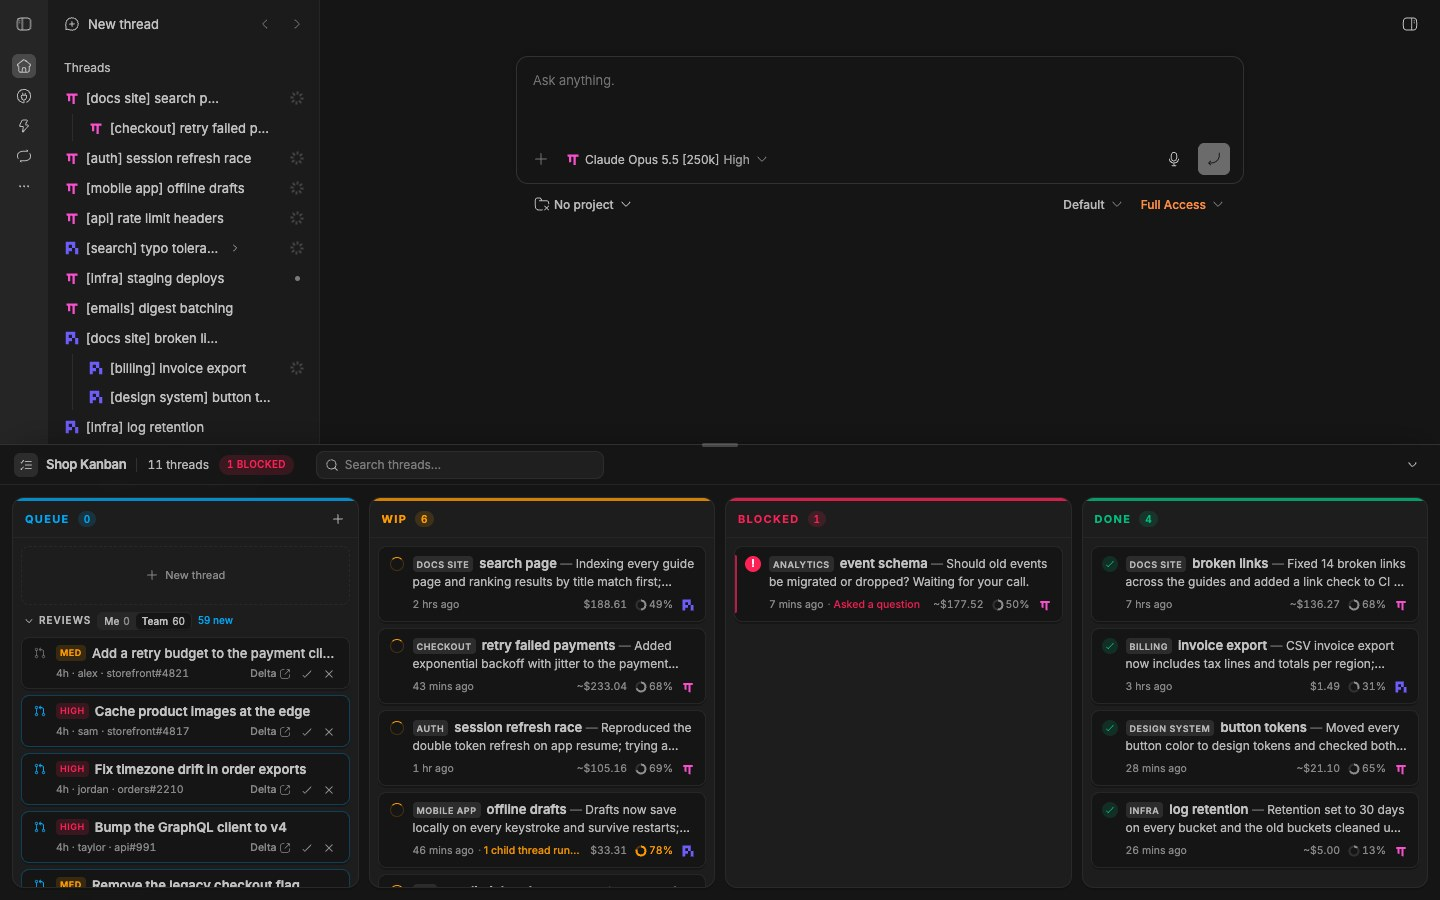
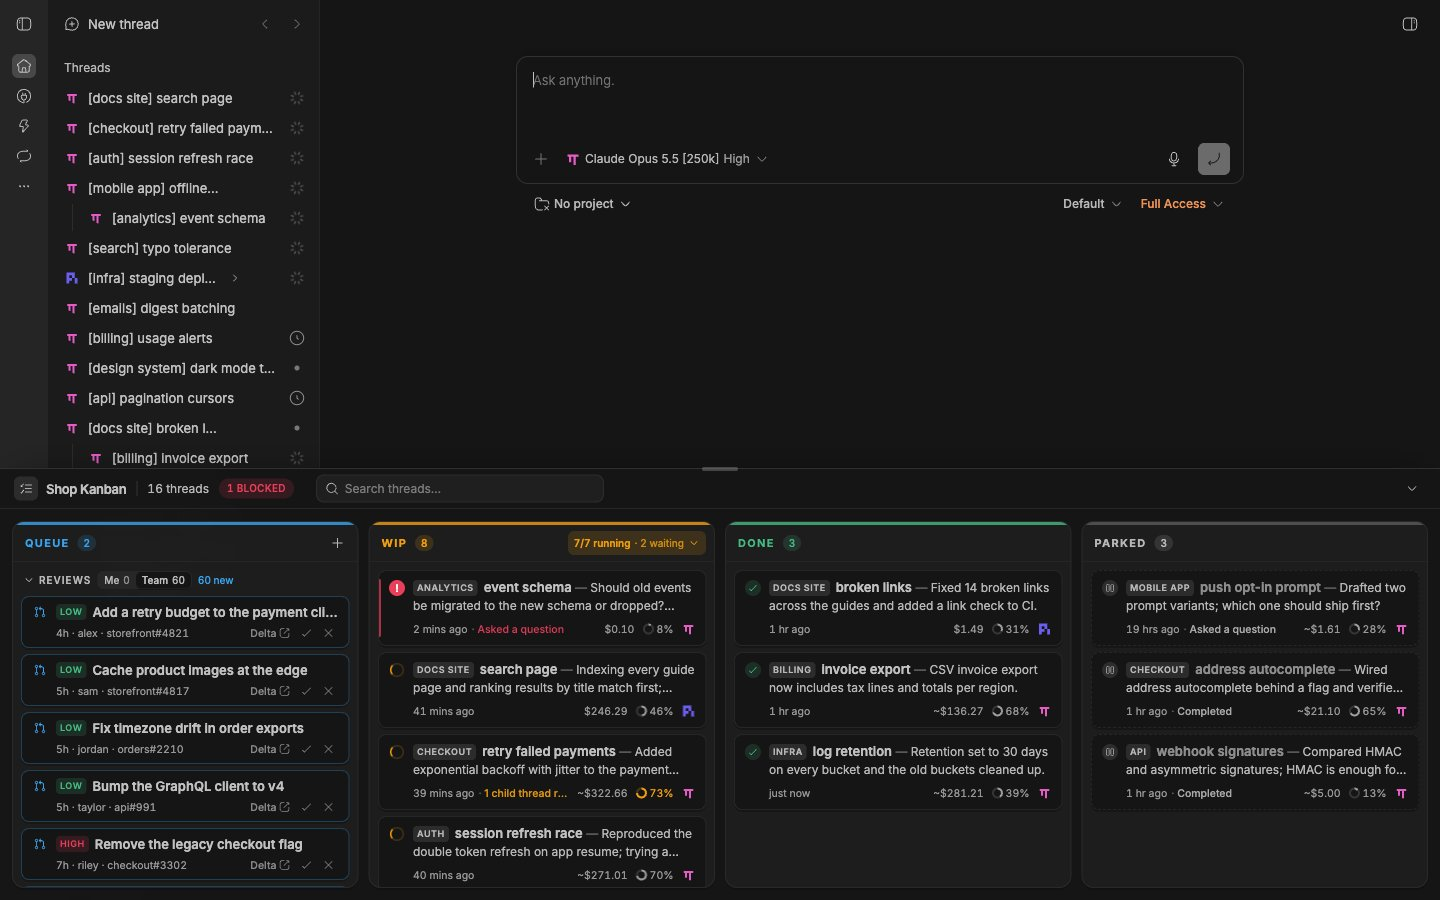
Update plugin entry: shop-kanban 0.11.0 (#741)
Automated note from a Claude Code agent, posted on behalf of the marketplace maintainer.

Reviewed under the maintainer admission policy. Exact selected plugin sources install and load, required marketplace format passes, and no malware or author self-addition to New and Notable was found. Current-head CI verified green.

diff --git a/overview/shop-kanban.md b/overview/shop-kanban.md
@@ -1,19 +1,20 @@
 ## What you get
 
-- A board docked at the bottom of bb with Queue, WIP, Blocked and Done columns. Every non-archived top-level thread is on it, and child threads roll up into their parent thread.
-- Columns follow live thread state, so you never drag a thread. Queue means not started. WIP means the thread or one of its children is running, background work included. Blocked means idle and waiting on you: a pending interaction, an error, a failed result, or a last reply that asks a question. Done means idle with a last reply that reports completion; unread Done threads come first.
-- Each thread shows a `[category] intent` title, a summary of the latest exchange (two lines, three on hover), the update time and status, what the thread has spent together with its child threads and subagents (archived ones included; `~` when part of it is estimated), a ring with the share of the context window in use (amber at 70%, red at 90%), and the icon of the harness running the thread. Rest the pointer on a card for a tooltip beside it with the harness, model, thinking level, tokens, cost, access mode and service tier.
-- Clicking a thread opens it at the latest message. The Queue + button starts a new thread from a form at the top of Queue that keeps your draft across reloads and crashes. The thread open in bb is highlighted on the board and kept in view.
-- The search bar in the board's title bar finds any thread by what was said in it, archived threads included. Picking a result opens the thread in bb and leaves the board as it is.
-- A Reviews section near the top of Queue lists open pull requests waiting on your review on Delta and GitHub. A Me | Team toggle switches between requests of you by name and of your teams, starting on Me; the `reviewSearchesMe` and `reviewSearchesTeam` settings pick the searches. Each is a two-line card: a risk chip and title, which opens a drafted new thread asking what changed, why and how risky it is; then age, author, and links to open it on Delta or GitHub, approve (click twice), or request changes with a reason. Archive hides one for good. Ones you already reviewed come back marked `re-review` only when new commits land.
+- A board docked at the bottom of bb with Queue, WIP, Done and Parked columns. Every non-archived top-level thread is on it; child threads roll up into their parent.
+- Columns follow live thread state. Queue means not started. WIP means the thread or one of its children is running, background work included; blocked threads (idle and waiting on you: a pending interaction, an error, a failed result, or a question in the last reply) sit at the top of WIP as red cards. Done means idle with a last reply that reports completion; unread ones come first. Parked, in grey, holds idle threads you drag onto it or park from the card's pause button; they leave Parked when the thread runs again.
+- A picker at the top of WIP caps how many threads run at once. With WIP full, a new thread or a follow-up to an idle one waits in Queue, marked "Waiting for a WIP slot", and starts when a WIP thread finishes. Blocked threads don't count; work inside a running thread goes through.
+- Each thread shows a `[category] intent` title, a summary of the latest exchange (two lines, three on hover), the update time and status, what the thread has spent with its child threads and subagents (`~` when partly estimated), a ring with the share of the context window in use (amber at 70%, red at 90%), and the harness icon. Rest the pointer on a card for a tooltip with the harness, model, thinking level, tokens, cost, access mode and service tier.
+- Clicking a thread opens it at the latest message. The Queue + button starts a new thread from a form that keeps your draft across reloads and crashes. The thread open in bb is highlighted on the board and kept in view.
+- The title-bar search finds any thread by what was said in it, archived threads included, and opens the result in bb.
+- A Reviews section near the top of Queue lists open pull requests waiting on your review on Delta and GitHub, with a Me | Team toggle (the `reviewSearchesMe` and `reviewSearchesTeam` settings pick the searches). Each card has a risk chip and a title that opens a drafted thread asking what changed, why and how risky it is, then age, author, and links to open it, approve (click twice), or request changes with a reason. Archive hides one for good; reviewed ones come back marked `re-review` only when new commits land.
 
 ## For agents
 
-Agents get four tools to track their own work: move their thread, spawn a child thread, spawn one independent thread per theory for an investigation, and mark a result as success (Done) or failure (Blocked). A bundled skill tells agents when to use them. The same actions are available from the terminal as `bb shop-kanban`.
+Agents get four tools to track their own work: move their thread, spawn a child thread, spawn one independent thread per theory for an investigation, and mark a result as success (Done) or failure (a red Blocked card in WIP). A bundled skill tells agents when to use them. The same actions, plus park and unpark, are available from the terminal as `bb shop-kanban`.
 
 ## Model-written labels
 
-Titles, summaries, and the Blocked-or-Done call for finished replies come from a small model. The plugin runs a pi-compatible CLI on the thread's host, by default `pi` with `anthropic/claude-haiku-4-5`, so labels are billed to that CLI's account. Board titles are written back to the bb thread title unless you rename the thread yourself. Set `labelerCommand` to empty to turn labels off; threads then use heuristic titles and an excerpt of the latest message.
+Titles, summaries, and the Blocked-or-Done call for finished replies come from a small model. The plugin runs a pi-compatible CLI on the thread's host, by default `pi` with `anthropic/claude-haiku-4-5`, so labels are billed to that CLI's account. The model sees the other cards' titles, so related threads share a tag. Board titles are written back to the bb thread title unless you rename the thread yourself. Set `labelerCommand` to empty to turn labels off; threads then use heuristic titles and an excerpt of the latest message.
 
 ## Requirements
 
@@ -22,6 +23,6 @@ Titles, summaries, and the Blocked-or-Done call for finished replies come from a
 - For thread search: [qmd](https://github.com/tobi/qmd) (`npm install -g @tobilu/qmd`) on a connected persistent host.
 - For the review queue: `dt` (Delta) and/or `gh` (GitHub), signed in, on that same host.
 
-Each is optional. The board works without any of them: without a labeler, threads keep heuristic titles; search shows how to install qmd when you use it; and review searches that can't run are skipped quietly, with the reason on hover over the Reviews header.
+Each is optional: without a labeler threads keep heuristic titles, search shows how to install qmd, and review searches that can't run are skipped, with the reason on hover over the Reviews header.
 
-If you replace bb's omp agent with a custom ACP agent entry, bb draws it with a generic toolbox glyph. The plugin draws bb's omp mark for it instead, in omp's pink (`#f84fcc`), in bb's sidebar and pickers as well as on the board.
+If you replace bb's omp agent with a custom ACP agent entry, the plugin draws bb's omp mark for it in omp's pink (`#f84fcc`) instead of a generic toolbox glyph, in bb's sidebar and pickers as well as on the board.
